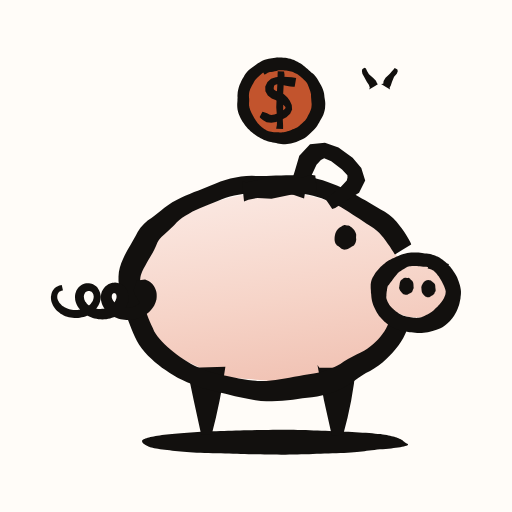
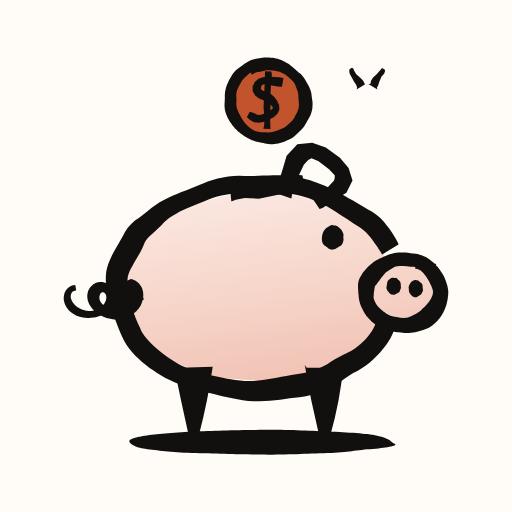
Cut the tail from three turns to two
Three turns read as a corkscrew rather than a pig's tail. Two is the
ceiling; the loop-closing constraint (PITCH * 2pi < 2 * RAD) is
unchanged.

Fewer turns pull the art's left edge back in, so FRAME and ART_CENTRE
are re-measured rather than carried over: bbox 315.2 x 325.8 about
(249.1, 259.3), furthest corner 226.7 out, so maskable is 200/226.7 =
0.88 where it was 0.85. That constant has now been 0.76, 0.86, 0.85 and
0.88 across four versions of this drawing, and none of those changes
were visible without asking the browser for getBBox().

Icons regenerated at all five sizes. ./test/run.sh green in all four
timezones; 55 browser checks pass.

Claude-Session: https://claude.ai/code/session_01B7aU3n4bgCnQVkLzktJ7si

diff --git a/CLAUDE.md b/CLAUDE.md
@@ -540,15 +540,15 @@ back — that argument has been had and this table is the answer.
   masthead's alone (§3.2), and the design draft that used it there was not carried over.
 - **Icon framing — `FRAME` and `ART_CENTRE` in `tools/ink/emit.mjs` are MEASURED, not chosen.**
   ⚠ **Re-derive both after any change to the drawing** — ask the browser for the art group's
-  `getBBox()`, don't estimate. The spring tail moved the left edge from 110 to **70.6** and took
-  the centre with it. Current: bbox **336.1 × 325.8** about **(238.7, 259.3)**, furthest bbox
-  corner **234** units from that centre.
-  - `any` is full-bleed at **1.22** → art at ~80% × 78% of the tile. ⚠ At 1.0 the pig floats in
+  `getBBox()`, don't estimate. The tail alone has moved them twice: three turns pushed the left
+  edge out to 70.6, two turns brought it back to 91.5. Current: bbox **315.2 × 325.8** about
+  **(249.1, 259.3)**, furthest bbox corner **226.7** units from that centre.
+  - `any` is full-bleed at **1.22** → art at ~75% × 78% of the tile. ⚠ At 1.0 the pig floats in
     a large empty square and becomes a dot on a home screen; the art's own bounds are not the
     tile's composition.
-  - `maskable` is **0.85** → furthest corner ~199 inside the 205-unit safe radius. ⚠ It is
-    `200 / maxR` for **this** drawing, not a constant: the bar mark's was 0.76, the pig's earlier
-    silhouette 0.86.
+  - `maskable` is **0.88** → furthest corner ~199 inside the 205-unit safe radius. ⚠ It is
+    `200 / maxR` for **this** drawing, not a constant — it has already been 0.76, 0.86, 0.85 and
+    now 0.88, and none of those changes were visible without measuring.
 - **The coin never simplifies away.** It carries a drawn **`$`** (S plus bar, same nib) and is
   the only saturated colour — the only reason the tile reads as money rather than as an animal.
   ⚠ The `$` is **ink on sienna** (~4.3:1), not a knockout in the paper colour (~3.9:1), which
@@ -570,8 +570,9 @@ back — that argument has been had and this table is the answer.
   merged into one black mass at 40px; and their tops sit at the body's **outline** (y ≈ 358 at
   those x), not inside it, because the body has no fill and a leg starting in the belly shows
   through as a black skirt.
-- **The tail is a spring** — a prolate cycloid, which is what a coil looks like from the side.
-  ⚠ **The loops only close while `PITCH × 2π < 2 × RAD`** (3.4 and 12: 21 < 24, three crossings).
+- **The tail is a spring of TWO turns** — a prolate cycloid, which is what a coil looks like
+  from the side. Three turns read as a corkscrew rather than a pig's tail; two is the ceiling.
+  ⚠ **The loops only close while `PITCH × 2π < 2 × RAD`** (3.4 and 12: 21 < 24).
   Raise the pitch and the curve silently relaxes into a wave with no error and no visual warning
   beyond "the tail looks wrong". Its first point sits inside the body so it reads as attached.
 - **`icon-64.png` is the tab favicon**, drawn at `d: 1` (no tail, eye or nostrils; heavier nib).
